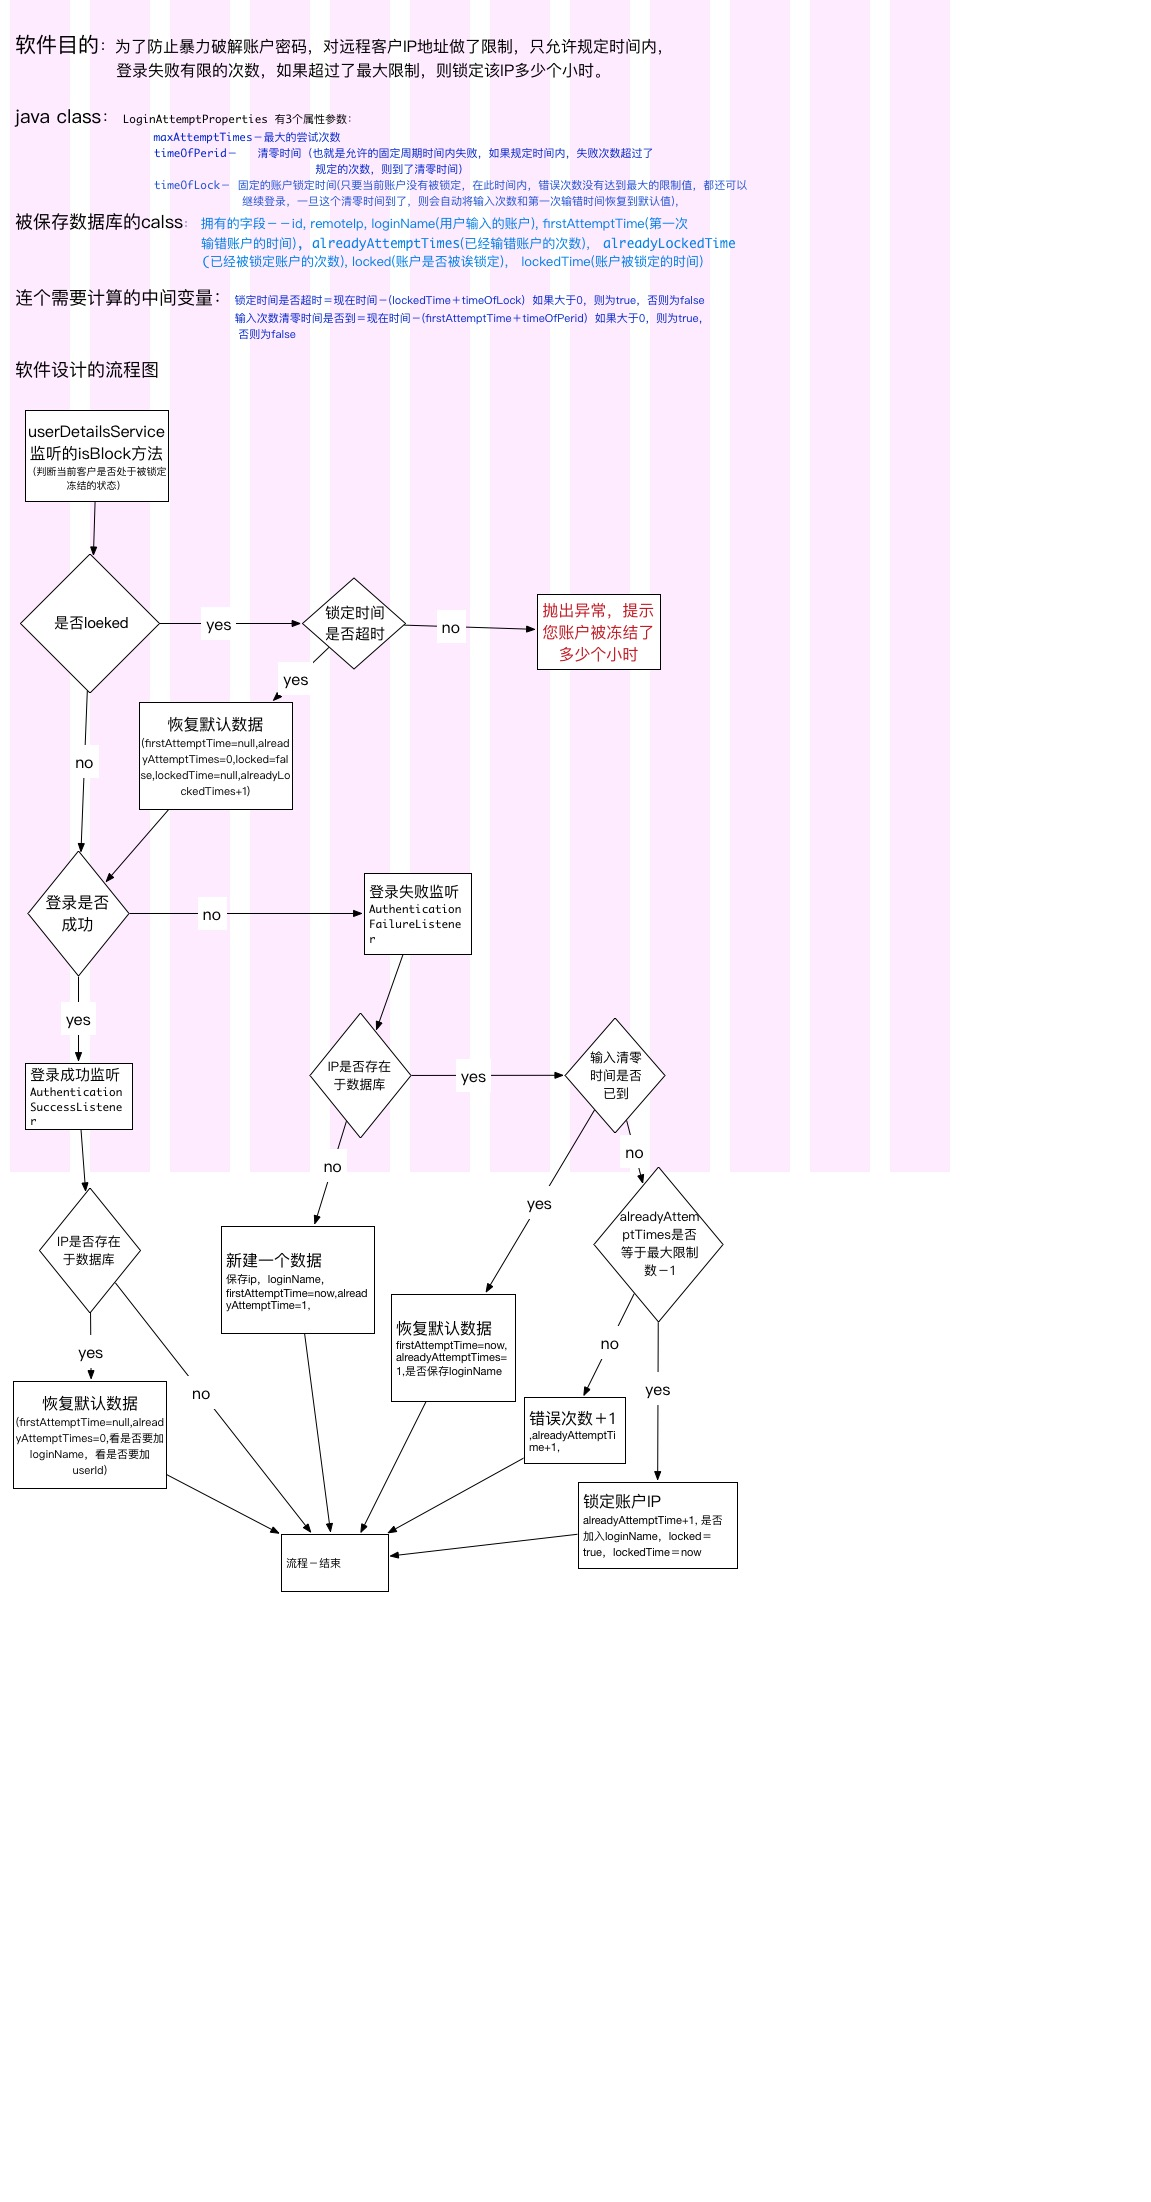
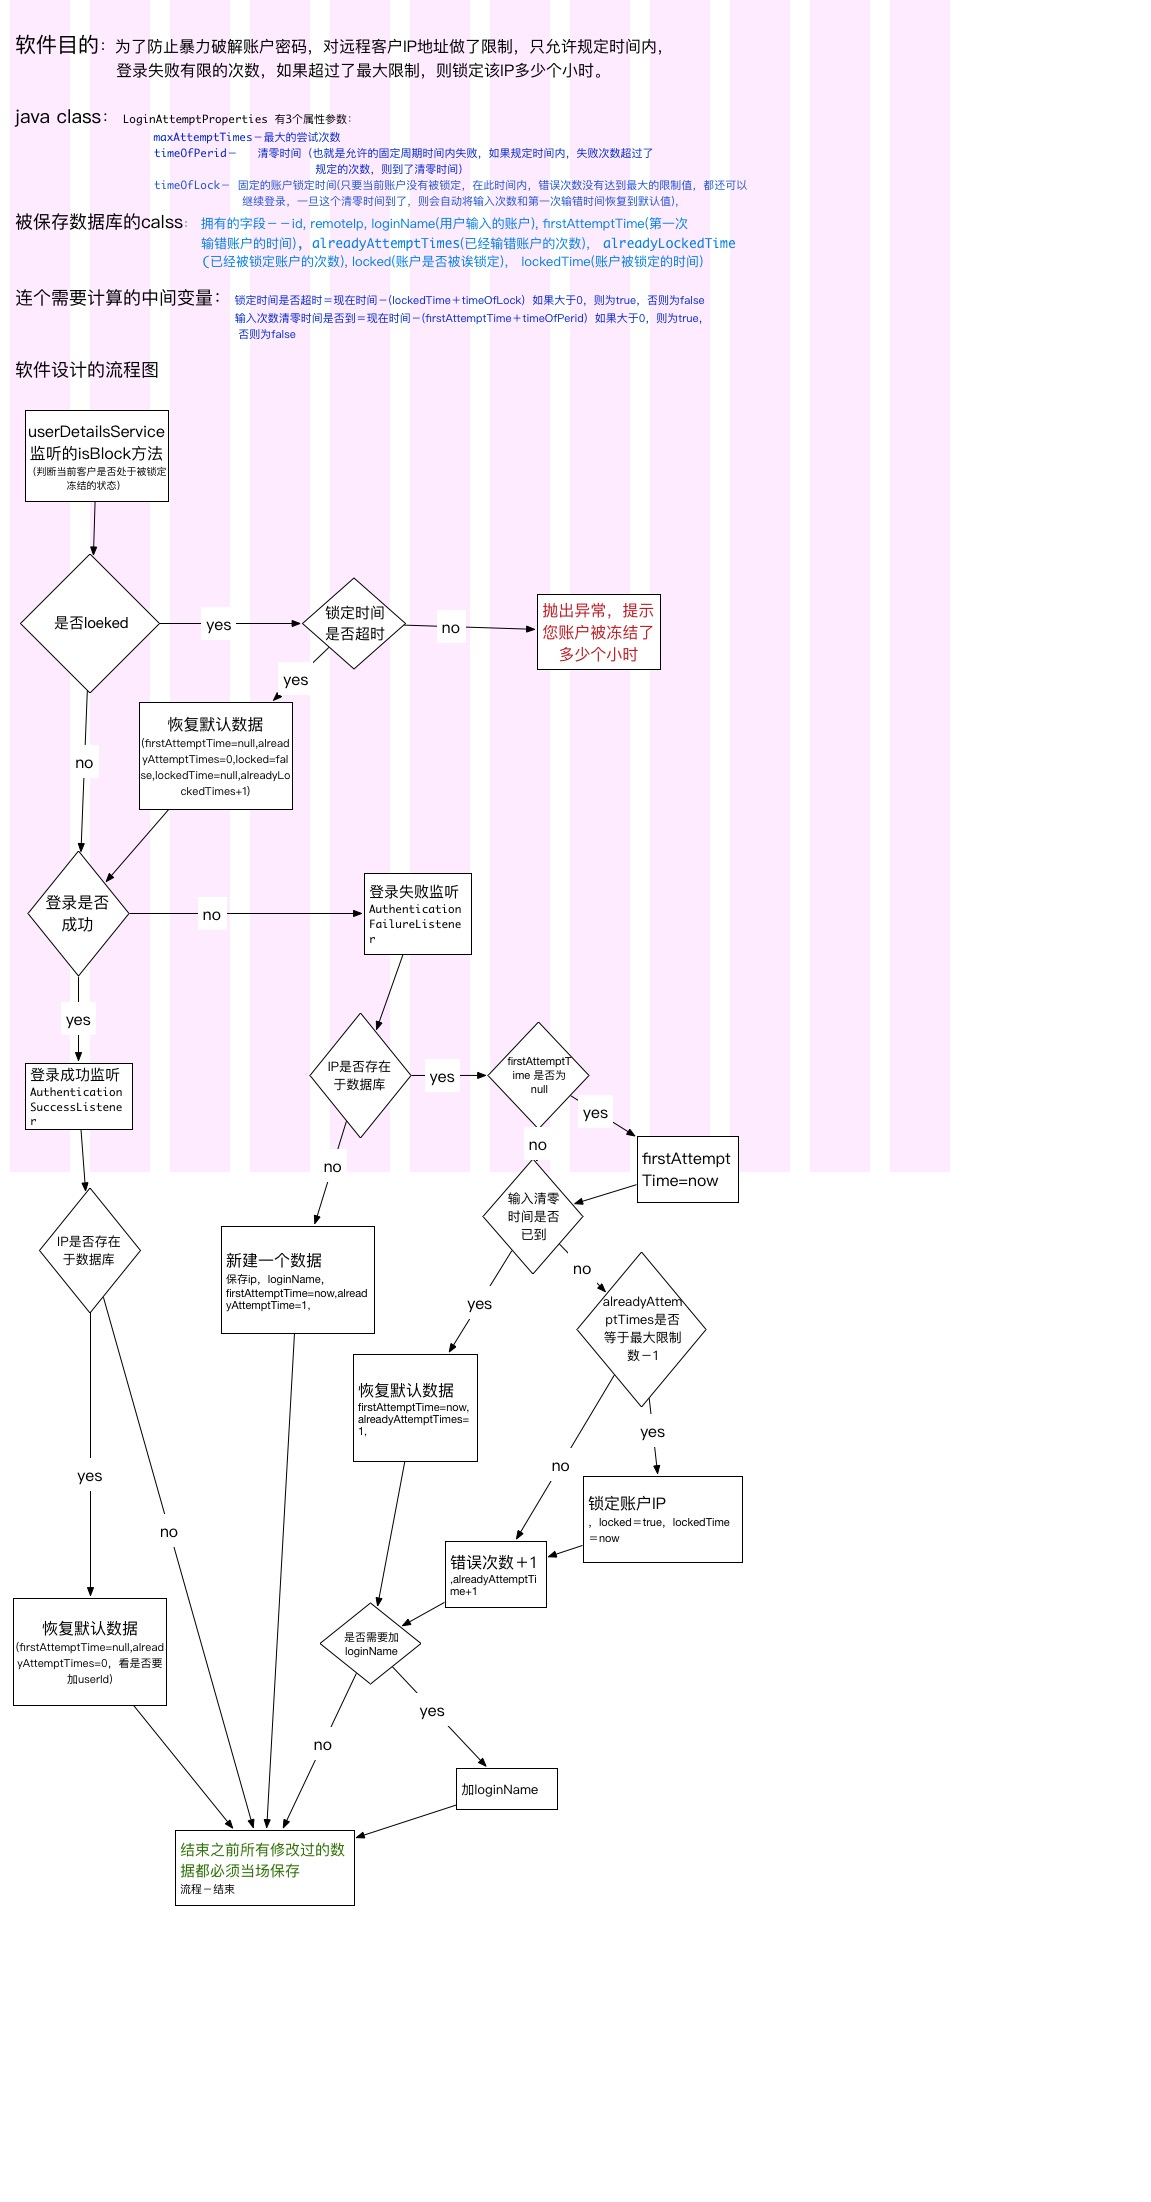
fix some bug

diff --git a/auth-server/src/main/resources/templates/login.html b/auth-server/src/main/resources/templates/login.html
@@ -6,13 +6,9 @@
 </head>
 <body>
 	<div class="container">
-		<!-- 使用 session[SPRING_SECURITY_LAST_EXCEPTION].message 来动态显示 后台登录错误的提示信息。
-		    同时还有一些信息是在message.property里-->
+		
 
-<div th:if="${param.message != null}"  th:text="${param.message[0]}">message</div>
-
-
-<div th:if="${param.error != null}"  th:text="${session[SPRING_SECURITY_LAST_EXCEPTION]}">error</div>
+<div th:if="${param.error != null}"  th:text="${session[SPRING_SECURITY_LAST_EXCEPTION].message}">error</div>
 
 	
 		<form role="form" th:action="@{/login}" method="post">

diff --git a/auth-server/src/main/java/com/xdidian/keryhu/authserver/service/LoginAttemptUserServiceImpl.java b/auth-server/src/main/java/com/xdidian/keryhu/authserver/service/LoginAttemptUserServiceImpl.java
@@ -43,7 +43,7 @@ public class LoginAttemptUserServiceImpl implements LoginAttemptUserService {
 	* <p>Title: loginFail</p>
 	* <p>Description: 用户登陆失败，促发的事件，并且传递参数用户ip，和userid，此种情况是userId不为空</p>
 	* 如果IP不存在于数据库，说明是第一次登陆，那么所有的基本信息都需要新建
-	* 如果IP存在于数据库，
+	* 如果IP存在于数据库，首先判断清零时间是否到
 	* @param ip
 	* @param userId
 	* @see com.xdidian.keryhu.authserver.service.LoginAttemptUserService#loginFail(java.lang.String, java.lang.String)
@@ -55,7 +55,6 @@ public class LoginAttemptUserServiceImpl implements LoginAttemptUserService {
 		if(!repository.findByRemoteIp(ip).isPresent()){
 			
 			LoginAttemptUser loginAttemptUser=new LoginAttemptUser();
-			
 			 Optional.of(loginAttemptUser).ifPresent(e->{
 				    e.setRemoteIp(ip);
 					//loginName不为空，执行存储动作
@@ -69,30 +68,34 @@ public class LoginAttemptUserServiceImpl implements LoginAttemptUserService {
 			 });
 		}
 		
-		//如果IP存在于数据库
+		
 		repository.findByRemoteIp(ip).ifPresent(e->{
-			//loginName不为空，执行存储动作,且系统中并没有记录此loginName的时候，存储，将LoginName 存为数组
-			addLoginName(loginName,e);
 			
-			int alreadyAttemptTimes=e.getAlreadyAttemptTimes();
-			
-			
-			if(isLockedTimeOut(e)){
-				
+			//如果FirstAttemptTime 为null的话，就设置为当前时间
+			if(e.getFirstAttemptTime()==null){
+				e.setFirstAttemptTime(LocalDateTime.now());
 			}
 			
-			//当前状态没有锁定，且失败次数涨到最大限制的时候，将执行锁定账户操作该IP地址，
-			if((!isLockedTimeOut(e))&&alreadyAttemptTimes==loginAttemptProperties.getMaxAttemptTimes()){
-				e.setLocked(true);
-				e.setLockedTime(LocalDateTime.now());
-				e.setAlreadyLockedTimes(e.getAlreadyLockedTimes()+1);
-			}
-			else{
-				//否则只需要单独 alreadyAttemptTimes＋1
-				e.setAlreadyAttemptTimes(alreadyAttemptTimes+1);
-			}
+			//指定的输错自动恢复的周期时间，是否已到(例如设定了3个小时内最多输入10次，就锁定账户，那么只要3个小时内次数没有超过10次，
+			//就可以继续登录平台，过了3个小时，输入次数恢复到0，第一次输错时间恢复为null
 			
-			repository.save(e);
+		    boolean isPeriodExpired=LocalDateTime.now().isAfter(
+		    		e.getFirstAttemptTime().plusHours(loginAttemptProperties.getTimeOfPerid()));
+		    if(isPeriodExpired){
+		    	//如果已经到了恢复时间，那么就恢复到初始值＋第一次输错的时间和次数
+		    	e.setFirstAttemptTime(LocalDateTime.now());
+		    	e.setAlreadyAttemptTimes(1);	
+		    } else {
+		    	//如果输错次数已经等同于规定的最大次数－1
+		    	if(e.getAlreadyAttemptTimes()==loginAttemptProperties.getMaxAttemptTimes()-1){
+		    		e.setLocked(true);
+		    		e.setLockedTime(LocalDateTime.now());    		
+		    	}
+		    	
+		    	e.setAlreadyAttemptTimes(e.getAlreadyAttemptTimes()+1);  	
+		    }
+		    addLoginName(loginName,e);
+		    repository.save(e);
 			
 		});
 		
@@ -105,42 +108,31 @@ public class LoginAttemptUserServiceImpl implements LoginAttemptUserService {
 	 * Title: loginSuccess
 	 * Description: 用户登陆成功后，所做的具体事情，登录成功，肯定能找的用户userId，所以就纪录数据库
 	 * 如果ip不存在，则无需做任何事情，
-	 * ip存在的情况下，分两种情况，
-	 * 一： 用户账户未被锁定的情况： 就是恢复用户的一些数据（差不多是初始化）
-	 * 二： 用户账户锁定的情况下：  如果已经锁定了账户，是没办法登录了，所以无需做任何事情
+	 * ip存在的情况下，恢复默认数据
 	 * @see com.xdidian.keryhu.authserver.service.LoginAttemptUserService#loginSuccess()
 	 */
 	@Override
-	public void loginSuccess(String ip,String userId,String loginName) {
+	public void loginSuccess(String ip,String userId) {
 		// TODO Auto-generated method stub   
 		
 		repository.findByRemoteIp(ip)
-		          .ifPresent(e->{
-		        	  
-		        	//如果ip存在于数据库的 情况下，且未被锁定的情况下
-		        	  if(!e.isLocked()){
-		        		  
-		        		  addLoginName(loginName,e);
-		        		  
+		          .ifPresent(e->{  
+		        	      e.setFirstAttemptTime(null);
+		        	      e.setAlreadyAttemptTimes(0);	        		  
 		        		  //如果userId不存在于数据库的情况下，保存它到数据库
 		  				  if(!repository.findByUserId(userId).isPresent()){
 		  					e.setUserId(userId);
 		  				  }
-		  				  
-		  				  //执行通用的初始化方法
-		  				  initLoginAttemptInfo(e);
-		  				  //保存结果
 		  				  repository.save(e);
-		        	  }
-		          });
-		
+		        	 
+		          });		
 	}
 
 	/**
 	 * 
 	 * @Title: isBlocked @Description: TODO(根据当前ip判断当前远程用户是否处于被锁定24小时状态。)
 	 * 首先如果IP地址不存在于数据库，那么直接返回，就是 orElse 返回的 false
-	 * 如果IP存在于数据库 ，且账户被locked(使用的Optional 的filter实现)，那么就判断第一次输错密码的时间，到现在有没有超过最大的 指定限制时间，
+	 * 如果IP存在于数据库 ，且账户被locked(使用的Optional 的filter实现)，那么就判断锁定的时间，到现在有没有超过最大的 指定限制时间，
 	 * 如果没有超过最大限定时间，则直接返回true，不需要做其他任何事情。
 	 * 否则，执行后续的动作，意思是超时了－－，初始化数据库，增加被锁定的时间＋1，否则就说明账户还是处于被锁定状态
 	 * 
@@ -151,67 +143,45 @@ public class LoginAttemptUserServiceImpl implements LoginAttemptUserService {
 	@Override
 	public boolean isBlocked(String ip) {
 		
-		//如果IP存在的情况下,且锁定的状态下，看是否超时，如果没有超时则直接返回true，如果超时了，且当前处于锁定状态,则执行恢复初始化状态，且返回false，默认返回false
+		//锁定的状态下，看是否超时，如果没有超时则直接返回true，如果超时了，且当前处于锁定状态,则执行恢复初始化状态，且返回false，默认返回false
 		return repository.findByRemoteIp(ip)
-				         .filter(e->e.getLockedTime()!=null)
+				         .filter(e->e.isLocked())
 				         .map(e->{			        	 
-				        	 //获取用户第一次登陆失败的时间点
-				    		 LocalDateTime attemptTime=e.getFirstAttemptTime();
-				   		
-				  				logger.info(new StringBuffer("数据库中ip账户第一次失败时间 : ")
-				  						.append(attemptTime)
+				        	 //获取用户锁定的时间点
+				    		 LocalDateTime lockedTime=e.getLockedTime();
+				  				logger.info(new StringBuffer("数据库中ip账户锁定的时间点是 : ")
+				  						.append(lockedTime)
 				  						.append(" , 目前的ISO时间是 : ")
 				  						.append(LocalDateTime.now())
 				  						.append(" , 预计什么时间点过期 : ")
-				  						.append(attemptTime.plusHours(loginAttemptProperties.getTimeOfLock()))
+				  						.append(lockedTime.plusHours(loginAttemptProperties.getTimeOfLock()))
 				  						.append(" , 目前锁定时间是否过期 : ")
 				  						.append(isLockedTimeOut(e))
-				  						.append(" , 距离第一次登陆失败到现在已经过去了多久 : ")
-				  						.append(Duration.between(attemptTime, LocalDateTime.now()).toMinutes())
+				  						.append(" , 距离上次锁定时间到现在已经过去了多久 : ")
+				  						.append(Duration.between(lockedTime, LocalDateTime.now()).toMinutes())
 				  						.append(" , 距离解锁时间，还有多久 ？ ")
-				  						.append(loginAttemptProperties.getTimeOfLock()*60-Duration.between(attemptTime, LocalDateTime.now()).toMinutes())
+				  						.append(loginAttemptProperties.getTimeOfLock()*60-Duration.between(lockedTime, LocalDateTime.now()).toMinutes())
 				  						.toString());
 				  				
 				  			   // 如果没有超时，且locded为true，那么直接返回true，不需要做其它任何动作
-					 			if ((!isLockedTimeOut(e)) && e.isLocked()) {
+					 			if (!isLockedTimeOut(e)) {
 					 				return true;
+					 			} 
+					 			 //否则就是超时了，那么就执行恢复动作
+					 			else {
+					 				 e.setFirstAttemptTime(null);	
+					 				 e.setAlreadyAttemptTimes(0);
+					 				 e.setLocked(false);
+					 				 e.setLockedTime(null);
+					 				 e.setAlreadyLockedTimes(e.getAlreadyLockedTimes()+1);
+					 				 repository.save(e);
+					 				 return false;
 					 			}
-					 			
-					 			//只要超时了,且当前账户是锁定状态才执行清零恢复动作
-					 			if(isLockedTimeOut(e)&&e.isLocked()){
-					 				 initLoginAttemptInfo(e);
-					 				
-					 			}
-				    			 						 			
-				    		     //默认返回false	        	 
-				        	     return false;
 				         }).orElse(false);
-		
+				
 	}
 
-	/**
-	 * @Title: initLoginAttemptUser
-	 *  @Description: TODO(当LoginAttemptUser从锁定状态，解除的锁定或者登录成功的时候(促发下面的方法)，
-	 *  设置user的初始化信息，并且保存于数据库。)
-	 *  @param 设定文件
-	 *  @return void 返回类型
-	 *  @throws
-	 */
-	private void initLoginAttemptInfo(LoginAttemptUser loginAttemptUser) {
-
-		//恢复第一次登录失败的时间点为null
-		loginAttemptUser.setFirstAttemptTime(null);
-		
-		// 恢复当前ip地址用户的尝试次数为0
-		loginAttemptUser.setAlreadyAttemptTimes(0);
-
-		// 恢复锁定状态为false
-		loginAttemptUser.setLocked(false);
-
-		loginAttemptUser.setLockedTime(null);
-
-	}
-	 
+	
 	 /**
 	  * 
 	 * @Title: addLoginName
@@ -240,7 +210,7 @@ public class LoginAttemptUserServiceImpl implements LoginAttemptUserService {
 	 private boolean isLockedTimeOut(LoginAttemptUser loginAttemptUser){
 		 
 		return  LocalDateTime.now().isAfter(
-				   loginAttemptUser.getFirstAttemptTime().plusHours(loginAttemptProperties.getTimeOfLock()));
+				   loginAttemptUser.getLockedTime().plusHours(loginAttemptProperties.getTimeOfLock()));
 		  
 	 }
 }

diff --git a/auth-server/src/main/java/com/xdidian/keryhu/authserver/security/AuthenticationSuccessListener.java b/auth-server/src/main/java/com/xdidian/keryhu/authserver/security/AuthenticationSuccessListener.java
@@ -46,11 +46,11 @@ public class AuthenticationSuccessListener  implements ApplicationListener<Authe
 		// TODO Auto-generated method stub
 		 WebAuthenticationDetails auth = (WebAuthenticationDetails) 
 		          e.getAuthentication().getDetails();
-		 String loginName=e.getAuthentication().getName();
-		 String userId=SecurityUtils.getCurrentLogin();
+		 //如果登录成功，那么这个就是userId
+		 String userId=e.getAuthentication().getName();
 		 String ip=auth.getRemoteAddress();
-		 loginAttemptUserService.loginSuccess(ip, userId, loginName);
-		 logger.info("登陆成功后，远程登陆的ip地址是： "+auth.getRemoteAddress()+"uuid is : "+loginName
+		 loginAttemptUserService.loginSuccess(ip, userId);
+		 logger.info("登陆成功后，远程登陆的ip地址是： "+auth.getRemoteAddress()
 				 +" , userId is : "+userId);
 		 
 	}

diff --git a/auth-server/src/main/java/com/xdidian/keryhu/authserver/service/LoginAttemptUserService.java b/auth-server/src/main/java/com/xdidian/keryhu/authserver/service/LoginAttemptUserService.java
@@ -37,7 +37,7 @@ public interface LoginAttemptUserService {
 	* @return void    返回类型
 	* @throws
 	 */
-	public void loginSuccess(String ip,String userId,String loginName);
+	public void loginSuccess(String ip,String userId);
 	
 	
 	/**
